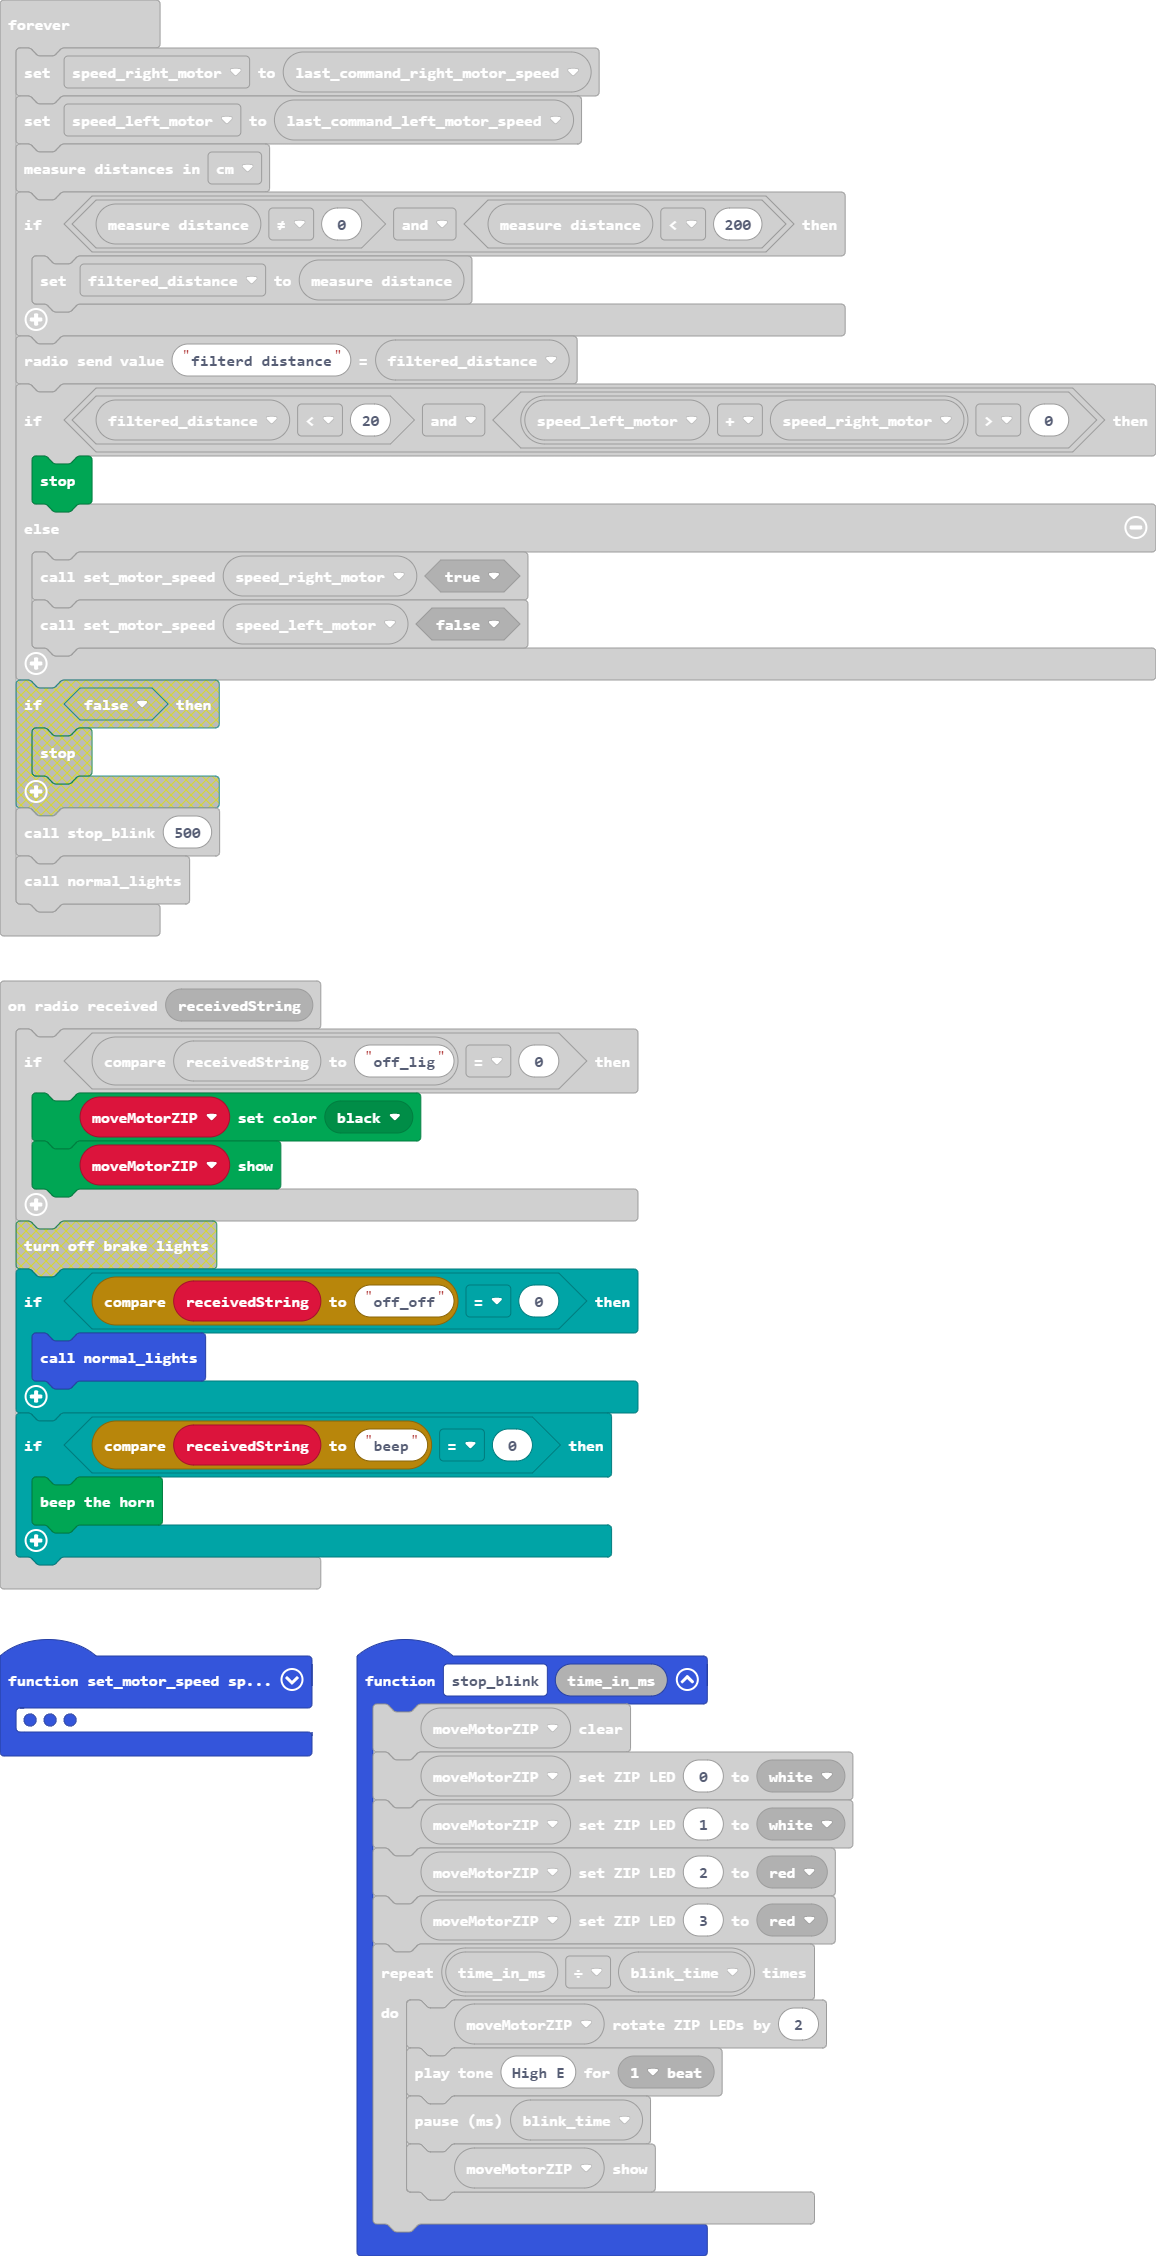
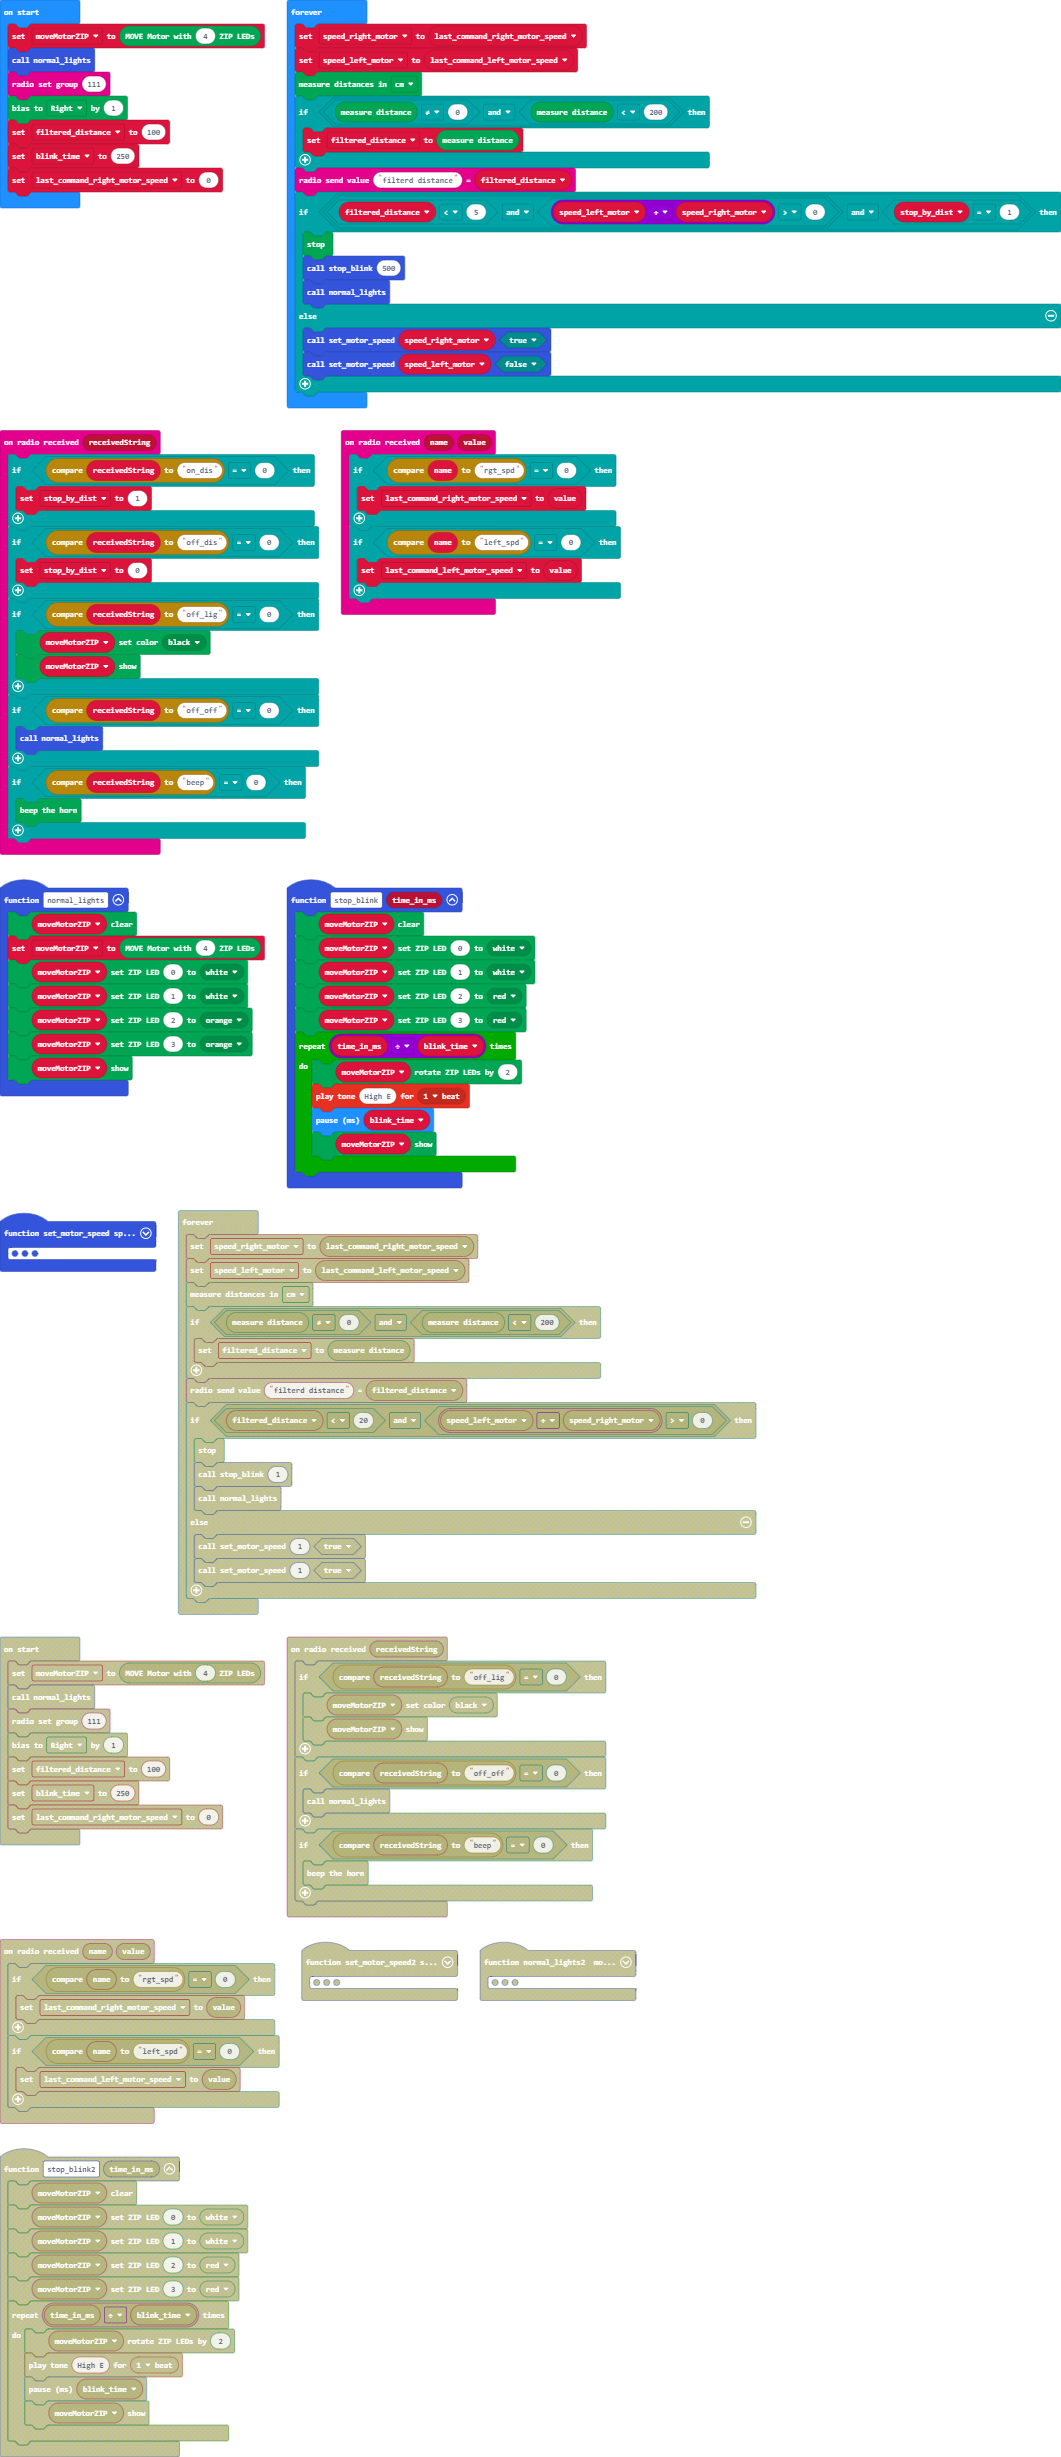
v1.4 - enable/disable distance sensor

diff --git a/main.ts b/main.ts
@@ -1,4 +1,4 @@
-function set_motor_speed(speed: number, motor: boolean) {
+function set_motor_speed (speed: number, motor: boolean) {
     if (motor) {
         if (speed > 0) {
             Kitronik_Move_Motor.motorOn(Kitronik_Move_Motor.Motors.MotorRight, Kitronik_Move_Motor.MotorDirection.Forward, speed)
@@ -7,7 +7,6 @@ function set_motor_speed(speed: number, motor: boolean) {
         } else {
             Kitronik_Move_Motor.motorOff(Kitronik_Move_Motor.Motors.MotorRight)
         }
-        
     } else if (speed > 0) {
         Kitronik_Move_Motor.motorOn(Kitronik_Move_Motor.Motors.MotorLeft, Kitronik_Move_Motor.MotorDirection.Forward, speed)
     } else if (speed < 0) {
@@ -15,11 +14,8 @@ function set_motor_speed(speed: number, motor: boolean) {
     } else {
         Kitronik_Move_Motor.motorOff(Kitronik_Move_Motor.Motors.MotorLeft)
     }
-    
 }
-
-function normal_lights() {
-    
+function normal_lights () {
     moveMotorZIP.clear()
     moveMotorZIP = Kitronik_Move_Motor.createMoveMotorZIPLED(4)
     moveMotorZIP.setZipLedColor(0, Kitronik_Move_Motor.colors(Kitronik_Move_Motor.ZipLedColors.White))
@@ -28,8 +24,7 @@ function normal_lights() {
     moveMotorZIP.setZipLedColor(3, Kitronik_Move_Motor.colors(Kitronik_Move_Motor.ZipLedColors.Orange))
     moveMotorZIP.show()
 }
-
-function stop_blink(time_in_ms: number) {
+function stop_blink (time_in_ms: number) {
     moveMotorZIP.clear()
     moveMotorZIP.setZipLedColor(0, Kitronik_Move_Motor.colors(Kitronik_Move_Motor.ZipLedColors.White))
     moveMotorZIP.setZipLedColor(1, Kitronik_Move_Motor.colors(Kitronik_Move_Motor.ZipLedColors.White))
@@ -42,39 +37,39 @@ function stop_blink(time_in_ms: number) {
         moveMotorZIP.show()
     }
 }
-
-radio.onReceivedString(function on_received_string(receivedString: string) {
+radio.onReceivedString(function (receivedString) {
+    if (receivedString.compare("on_dis") == 0) {
+        stop_by_dist = 1
+    }
+    if (receivedString.compare("off_dis") == 0) {
+        stop_by_dist = 0
+    }
     if (receivedString.compare("off_lig") == 0) {
         moveMotorZIP.setColor(Kitronik_Move_Motor.colors(Kitronik_Move_Motor.ZipLedColors.Black))
         moveMotorZIP.show()
     }
-    
     if (receivedString.compare("off_off") == 0) {
         normal_lights()
     }
-    
     if (receivedString.compare("beep") == 0) {
         Kitronik_Move_Motor.beepHorn()
     }
-    
 })
-radio.onReceivedValue(function on_received_value(name: string, value: number) {
-    
+radio.onReceivedValue(function (name, value) {
     if (name.compare("rgt_spd") == 0) {
         last_command_right_motor_speed = value
     }
-    
     if (name.compare("left_spd") == 0) {
         last_command_left_motor_speed = value
     }
-    
 })
 let speed_left_motor = 0
 let speed_right_motor = 0
 let last_command_left_motor_speed = 0
+let stop_by_dist = 0
 let last_command_right_motor_speed = 0
 let blink_time = 0
-let moveMotorZIP : Kitronik_Move_Motor.MoveMotorZIP = null
+let moveMotorZIP: Kitronik_Move_Motor.MoveMotorZIP = null
 moveMotorZIP = Kitronik_Move_Motor.createMoveMotorZIPLED(4)
 normal_lights()
 radio.setGroup(111)
@@ -82,17 +77,15 @@ Kitronik_Move_Motor.motorBalance(Kitronik_Move_Motor.SpinDirections.Right, 1)
 let filtered_distance = 100
 blink_time = 250
 last_command_right_motor_speed = 0
-basic.forever(function on_forever() {
-    
+basic.forever(function () {
     speed_right_motor = last_command_right_motor_speed
     speed_left_motor = last_command_left_motor_speed
     Kitronik_Move_Motor.setUltrasonicUnits(Kitronik_Move_Motor.Units.Centimeters)
     if (Kitronik_Move_Motor.measure() != 0 && Kitronik_Move_Motor.measure() < 200) {
         filtered_distance = Kitronik_Move_Motor.measure()
     }
-    
     radio.sendValue("filterd distance", filtered_distance)
-    if (filtered_distance < 20 && speed_left_motor + speed_right_motor > 0) {
+    if (filtered_distance < 5 && speed_left_motor + speed_right_motor > 0 && stop_by_dist == 1) {
         Kitronik_Move_Motor.stop()
         stop_blink(500)
         normal_lights()
@@ -100,5 +93,4 @@ basic.forever(function on_forever() {
         set_motor_speed(speed_right_motor, true)
         set_motor_speed(speed_left_motor, false)
     }
-    
 })

diff --git a/main.py b/main.py
@@ -10,17 +10,16 @@ def set_motor_speed(speed: number, motor: bool):
                 abs(speed))
         else:
             Kitronik_Move_Motor.motor_off(Kitronik_Move_Motor.Motors.MOTOR_RIGHT)
+    elif speed > 0:
+        Kitronik_Move_Motor.motor_on(Kitronik_Move_Motor.Motors.MOTOR_LEFT,
+            Kitronik_Move_Motor.MotorDirection.FORWARD,
+            speed)
+    elif speed < 0:
+        Kitronik_Move_Motor.motor_on(Kitronik_Move_Motor.Motors.MOTOR_LEFT,
+            Kitronik_Move_Motor.MotorDirection.REVERSE,
+            abs(speed))
     else:
-        if speed > 0:
-            Kitronik_Move_Motor.motor_on(Kitronik_Move_Motor.Motors.MOTOR_LEFT,
-                Kitronik_Move_Motor.MotorDirection.FORWARD,
-                speed)
-        elif speed < 0:
-            Kitronik_Move_Motor.motor_on(Kitronik_Move_Motor.Motors.MOTOR_LEFT,
-                Kitronik_Move_Motor.MotorDirection.REVERSE,
-                abs(speed))
-        else:
-            Kitronik_Move_Motor.motor_off(Kitronik_Move_Motor.Motors.MOTOR_LEFT)
+        Kitronik_Move_Motor.motor_off(Kitronik_Move_Motor.Motors.MOTOR_LEFT)
 def normal_lights():
     global moveMotorZIP
     moveMotorZIP.clear()
@@ -51,6 +50,11 @@ def stop_blink(time_in_ms: number):
         moveMotorZIP.show()
 
 def on_received_string(receivedString):
+    global stop_by_dist
+    if receivedString.compare("on_dis") == 0:
+        stop_by_dist = 1
+    if receivedString.compare("off_dis") == 0:
+        stop_by_dist = 0
     if receivedString.compare("off_lig") == 0:
         moveMotorZIP.set_color(Kitronik_Move_Motor.colors(Kitronik_Move_Motor.ZipLedColors.BLACK))
         moveMotorZIP.show()
@@ -71,6 +75,7 @@ radio.on_received_value(on_received_value)
 speed_left_motor = 0
 speed_right_motor = 0
 last_command_left_motor_speed = 0
+stop_by_dist = 0
 last_command_right_motor_speed = 0
 blink_time = 0
 moveMotorZIP: Kitronik_Move_Motor.MoveMotorZIP = None
@@ -90,7 +95,7 @@ def on_forever():
     if Kitronik_Move_Motor.measure() != 0 and Kitronik_Move_Motor.measure() < 200:
         filtered_distance = Kitronik_Move_Motor.measure()
     radio.send_value("filterd distance", filtered_distance)
-    if filtered_distance < 20 and speed_left_motor + speed_right_motor > 0:
+    if filtered_distance < 5 and speed_left_motor + speed_right_motor > 0 and stop_by_dist == 1:
         Kitronik_Move_Motor.stop()
         stop_blink(500)
         normal_lights()
